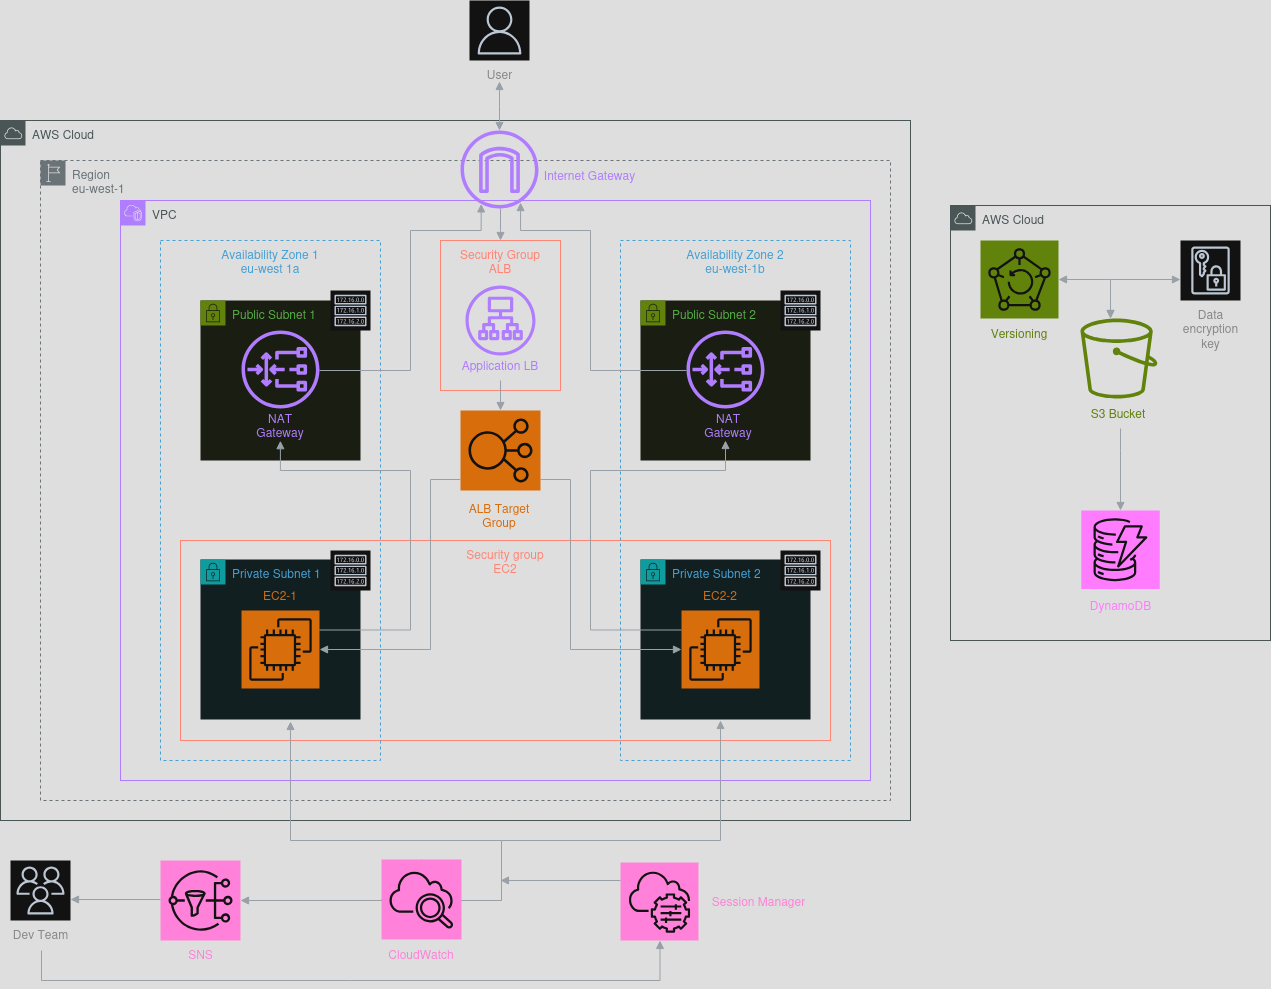
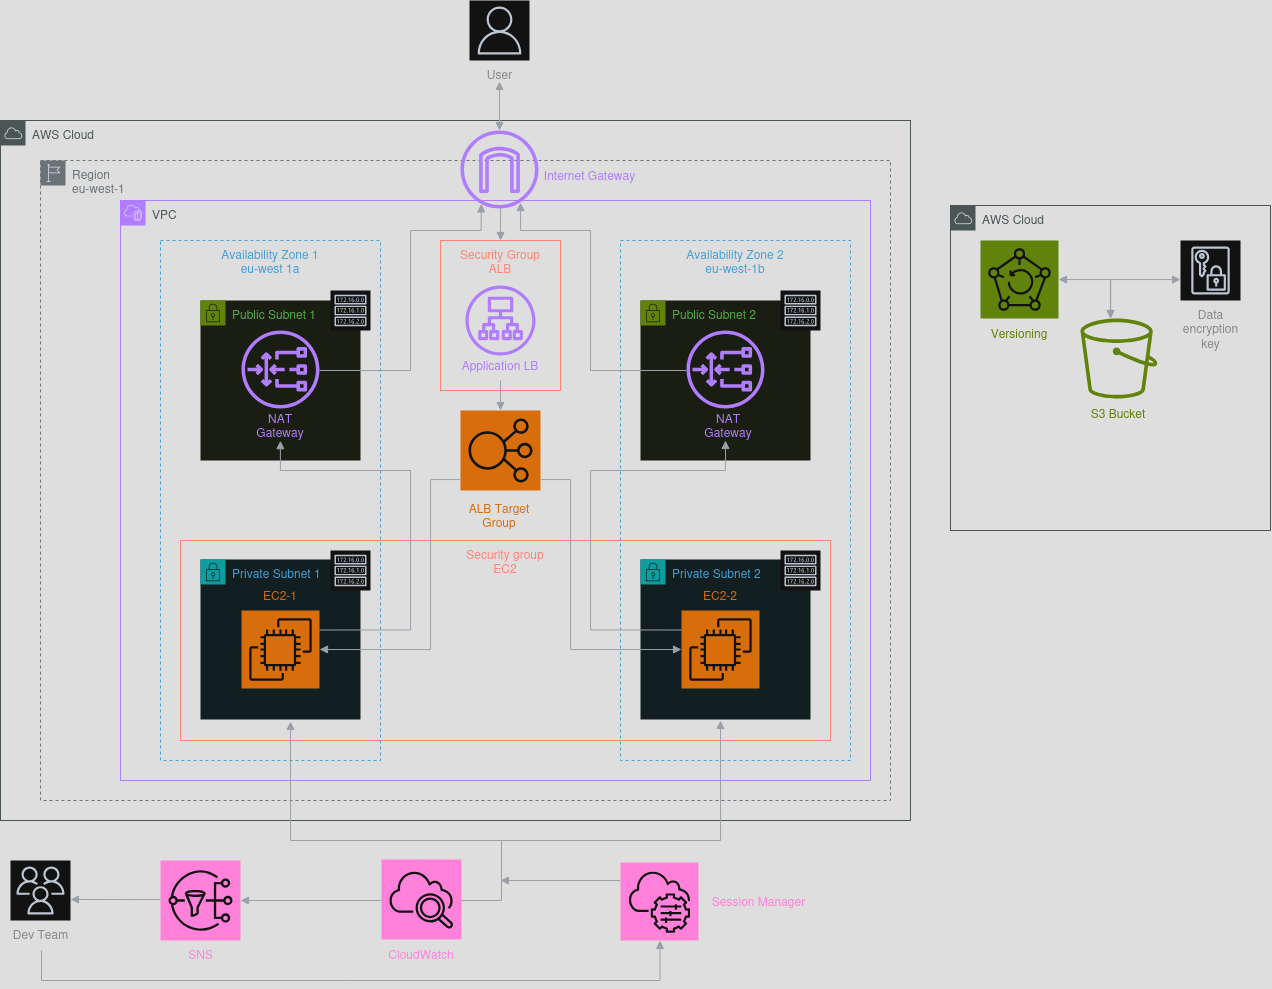
Fix documentation

diff --git a/README.md b/README.md
@@ -89,7 +89,7 @@ This project uses **Terraform** to provision an AWS environment, broken into log
 
 ## Remote backend
 - Remote state stored in **S3** (with versioning and SSE-KMS encryption)  
-- State locking via **DynamoDB**
+- State locking **without DynamoDB** using S3 native locking
 
 ---
 
